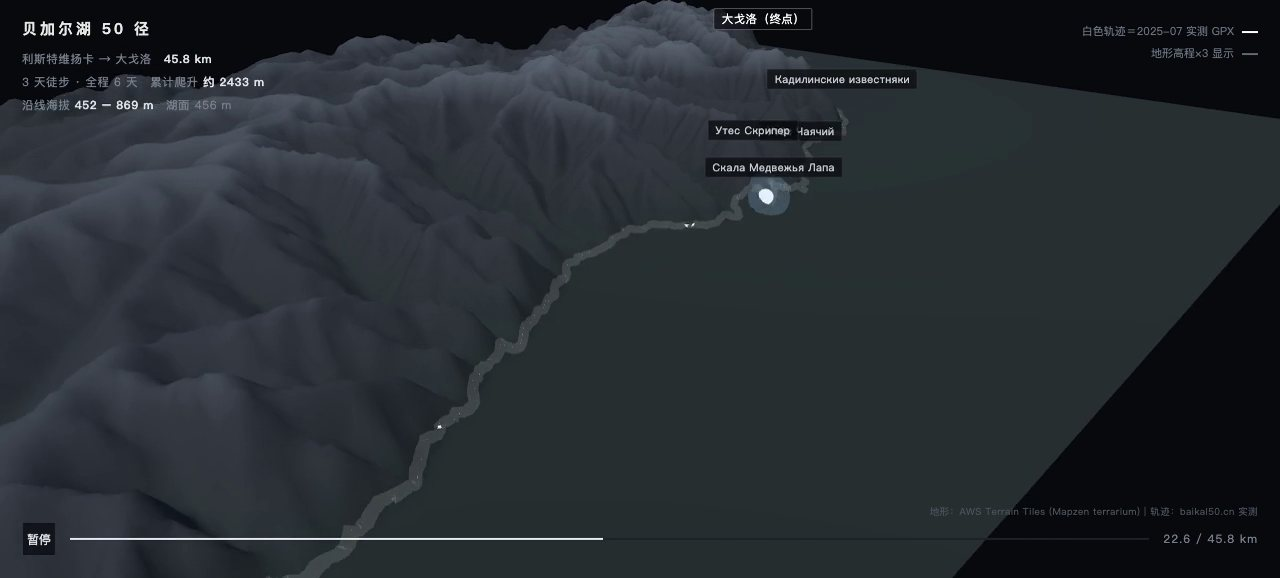
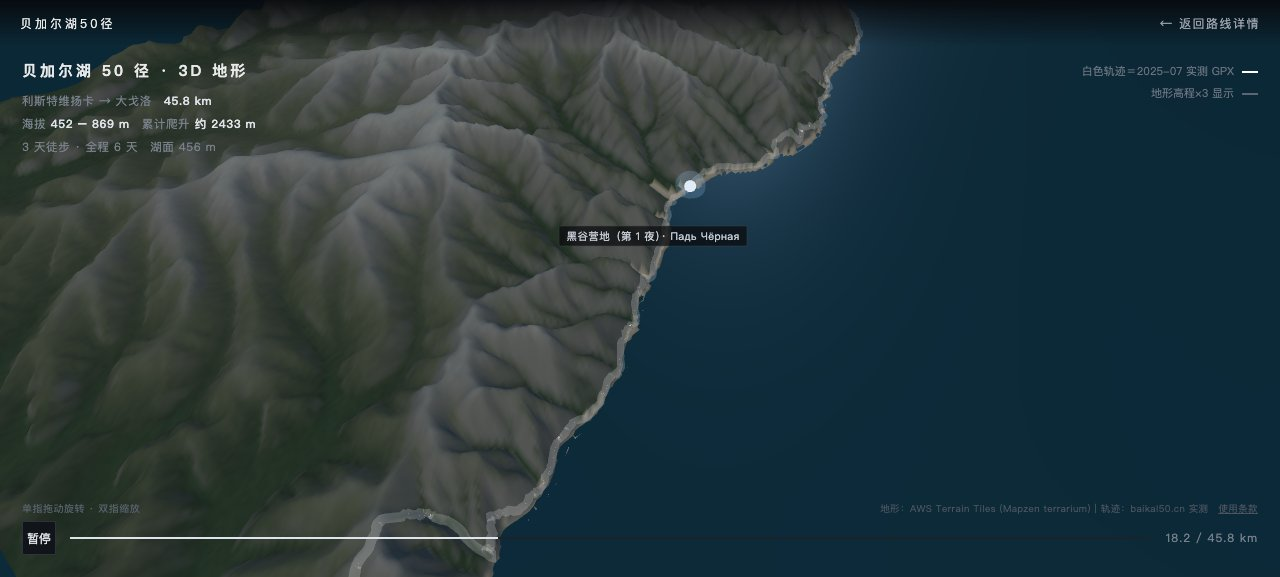
style(3D): 地形配色改实地色系（湖岸砾石滩/针叶林/崖壁裸岩，按高程+坡度混合）、湖水改深青蓝、日间自然光；标注改为 6 个关键点（含黑谷营地、大科特）；手机端 touch-action + 降密度 + 标签安全区；湖底压深修正水面被顶出

diff --git a/route-3d.html b/route-3d.html
@@ -20,7 +20,7 @@
     * { margin:0; padding:0; box-sizing:border-box; }
     html, body { height:100%; }
     body { background:#07090c; color:#e9e9e9; font-family:-apple-system,"PingFang SC","Noto Sans SC",sans-serif; overflow:hidden; }
-    canvas { display:block; }
+    canvas { display:block; touch-action:none; -webkit-user-select:none; user-select:none; }
     .topbar { position:fixed; left:0; right:0; top:0; height:46px; display:flex; align-items:center; justify-content:space-between;
               padding:0 20px; font-size:12px; letter-spacing:1.5px; z-index:20;
               background:linear-gradient(180deg, rgba(7,9,12,.92), rgba(7,9,12,0)); }
@@ -41,6 +41,7 @@
     .lbl { position:fixed; font-size:10.5px; color:#c6ccd4; background:rgba(8,10,13,.72); border:1px solid rgba(255,255,255,.09);
            padding:2px 7px; border-radius:2px; white-space:nowrap; pointer-events:none; transform:translate(-50%,-50%); letter-spacing:.4px; z-index:9; }
     .lbl.main { color:#fff; border-color:rgba(255,255,255,.28); font-size:11.5px; }
+    #hint { position:fixed; left:22px; bottom:62px; font-size:10px; color:#5a636f; letter-spacing:.5px; pointer-events:none; z-index:10; }
     #credit { position:fixed; right:22px; bottom:62px; font-size:9.5px; color:#4c545e; letter-spacing:.4px; pointer-events:none; z-index:10; }
     #credit a { color:inherit; }
     #legend { position:fixed; right:22px; top:60px; font-size:11px; color:#6b7480; line-height:2; text-align:right; pointer-events:none; z-index:10; }
@@ -50,7 +51,8 @@
       #hud { left:16px; top:56px; }
       #hud h1 { font-size:13px; }
       #legend { display:none; }
-      #credit { right:16px; bottom:66px; font-size:9px; }
+      #credit { right:16px; bottom:88px; font-size:8.5px; max-width:78%; text-align:right; line-height:1.5; }
+      #hint { left:16px; bottom:66px; font-size:9px; }
       #bar { left:16px; right:16px; bottom:16px; }
       #km { min-width:84px; }
     }
@@ -130,13 +132,14 @@
 </div>
 <div id="legend">
   白色轨迹＝2025-07 实测 GPX<i style="background:#ffffff"></i><br>
-  地形高程×8 显示<i style="background:#5b6672"></i>
+  地形高程×3 显示<i style="background:#5b6672"></i>
 </div>
 <div id="bar">
   <button id="play">暂停</button>
   <div id="track"><div id="fill"></div></div>
   <div id="km">0.0 / 45.8 km</div>
 </div>
+<div id="hint">单指拖动旋转 · 双指缩放</div>
 <div id="credit">地形：AWS Terrain Tiles (Mapzen terrarium)｜轨迹：baikal50.cn 实测　<a href="/license.html">使用条款</a></div>
 
 <script type="importmap">
@@ -151,7 +154,7 @@ import * as THREE from 'three';
 import { OrbitControls } from 'three/addons/controls/OrbitControls.js';
 
 const KMX = 36.1, KMZ = 24.1;      // 覆盖公里数（6×4 块 z12 瓦片）
-const VEX = 8.0;                    // 高程夸张倍数（36km 场景内要让 150m 崖体可见）
+const VEX = 3.0;                    // 高程夸张倍数（回到第一稿 ×3）
 const BASE = 456;                   // 湖面基准
 
 const data = await (await fetch('baik3d-data.json')).json();
@@ -184,7 +187,7 @@ scene.background = new THREE.Color(0x07090c);
 scene.fog = new THREE.FogExp2(0x07090c, 0.010);
 
 const camera = new THREE.PerspectiveCamera(42, innerWidth/innerHeight, 0.2, 400);
-camera.position.set(-21, 17, 21);
+camera.position.set(-24, 26, 24);
 if (camera.aspect < 1) camera.position.multiplyScalar(1.7);
 
 const renderer = new THREE.WebGLRenderer({ antialias:true });
@@ -197,34 +200,57 @@ controls.enableDamping = true; controls.dampingFactor = 0.07;
 controls.target.set(0, 1.5, 0);
 controls.maxPolarAngle = Math.PI/2 - 0.04;
 controls.minDistance = 8; controls.maxDistance = 90;
+controls.touches = { ONE: THREE.TOUCH.ROTATE, TWO: THREE.TOUCH.DOLLY_PAN };
 
-scene.add(new THREE.HemisphereLight(0x93a7bd, 0x05070a, 0.85));
-const sun = new THREE.DirectionalLight(0xf2f6ff, 1.55);
+scene.add(new THREE.HemisphereLight(0xa9cbe8, 0x22261d, 0.85));
+const sun = new THREE.DirectionalLight(0xfff3e0, 1.85);
 sun.position.set(-18, 26, 12); scene.add(sun);
-const fillLight = new THREE.DirectionalLight(0x7d93ad, 0.5);
+const fillLight = new THREE.DirectionalLight(0x8fb4d4, 0.45);
 fillLight.position.set(20, 10, -16); scene.add(fillLight);
 
 // ---------- 地形 ----------
-const SEG = 520;
+const IS_MOBILE = Math.min(innerWidth, innerHeight) < 700;
+const SEG = IS_MOBILE ? 320 : 520;   // 手机降密度保帧率
 const geo = new THREE.PlaneGeometry(KMX, KMZ, SEG, SEG);
 geo.rotateX(-Math.PI/2);
 const pos = geo.attributes.position;
-const colors = [];
-const cLow  = new THREE.Color(0x2b3a33);   // 低处（林地）
-const cMid  = new THREE.Color(0x4a4f56);   // 中坡
-const cHigh = new THREE.Color(0xa8b2bd);   // 高处（岩/雪）
+const colors = new Float32Array(pos.count * 3);
+// 第一遍：位移
 for (let i = 0; i < pos.count; i++) {
   const x = pos.getX(i), z = pos.getZ(i);
   const px = (x/KMX + 0.5) * gw, py = (z/KMZ + 0.5) * gh;
   const e = elevAt(px, py);
-  const y = isLake(px, py) ? (BASE - 3) : e;
+  const y = isLake(px, py) ? (BASE - 40) : e;
   pos.setY(i, (y - BASE) / 1000 * VEX);
-  const t = Math.max(0, Math.min(1, (e - EMIN) / (EMAX - EMIN)));
-  const c = t < 0.5 ? cLow.clone().lerp(cMid, t*2) : cMid.clone().lerp(cHigh, (t-0.5)*2);
-  colors.push(c.r, c.g, c.b);
 }
-geo.setAttribute('color', new THREE.Float32BufferAttribute(colors, 3));
 geo.computeVertexNormals();
+
+// 第二遍：按「高程 + 坡度」上色 —— 贴近实地（湖岸砾石／针叶林／崖壁裸岩）
+const nrm = geo.attributes.normal;
+const C_BEACH  = new THREE.Color(0x9c9689);   // 湖岸砾石滩
+const C_FOREST = new THREE.Color(0x2a4230);   // 针叶林
+const C_FOREST2= new THREE.Color(0x1e3324);   // 密林阴面
+const C_MIX    = new THREE.Color(0x4c5546);   // 林岩过渡
+const C_ROCK   = new THREE.Color(0x6e7274);   // 崖壁裸岩
+const C_ROCK2  = new THREE.Color(0x9aa0a2);   // 高处浅色岩
+const tmp = new THREE.Color();
+function hash(i){ const v = Math.sin(i * 12.9898) * 43758.5453; return v - Math.floor(v); }
+for (let i = 0; i < pos.count; i++) {
+  const x = pos.getX(i), z = pos.getZ(i);
+  const px = (x/KMX + 0.5) * gw, py = (z/KMZ + 0.5) * gh;
+  const e = elevAt(px, py);
+  const j = hash(i) * 0.45;                                  // 确定性噪声，避免色带
+  if (isLake(px, py) || e < 478) tmp.copy(C_BEACH);
+  else if (e < 600) tmp.copy(C_FOREST).lerp(C_FOREST2, 0.25 + j);
+  else if (e < 780) tmp.copy(C_FOREST2).lerp(C_MIX, (e-600)/180 + j*0.4);
+  else if (e < 900) tmp.copy(C_MIX).lerp(C_ROCK, (e-780)/120 + j*0.3);
+  else tmp.copy(C_ROCK).lerp(C_ROCK2, Math.min(1, (e-900)/160 + j*0.3));
+  const slope = 1 - Math.abs(nrm.getY(i));                   // 越陡越露岩
+  const sBlend = Math.max(0, Math.min(1, (slope - 0.16) / 0.32));
+  tmp.lerp(C_ROCK, sBlend * 0.85);
+  colors[i*3] = tmp.r; colors[i*3+1] = tmp.g; colors[i*3+2] = tmp.b;
+}
+geo.setAttribute('color', new THREE.BufferAttribute(colors, 3));
 const terrain = new THREE.Mesh(geo, new THREE.MeshStandardMaterial({
   vertexColors:true, roughness:0.94, metalness:0.04, flatShading:false
 }));
@@ -232,11 +258,11 @@ scene.add(terrain);
 
 // ---------- 湖面 ----------
 const water = new THREE.Mesh(
-  new THREE.PlaneGeometry(KMX*3.2, KMZ*3.2),
-  new THREE.MeshStandardMaterial({ color:0x05090d, roughness:0.62, metalness:0.18 })
+  new THREE.PlaneGeometry(KMX*9, KMZ*9),   // 大幅外扩，水面边缘移出画面
+  new THREE.MeshStandardMaterial({ color:0x18485f, roughness:0.34, metalness:0.42 })
 );
 water.rotation.x = -Math.PI/2;
-water.position.y = (BASE - BASE) / 1000 * VEX - 0.012;
+water.position.y = -0.004;
 scene.add(water);
 
 // ---------- 路线 ----------
@@ -249,13 +275,13 @@ const curve = new THREE.CatmullRomCurve3(route, false, 'catmullrom', 0.15);
 
 // 底光晕（粗淡线）
 const halo = new THREE.Mesh(
-  new THREE.TubeGeometry(curve, 1400, 0.028, 6, false),
-  new THREE.MeshBasicMaterial({ color:0xffffff, transparent:true, opacity:0.11 })
+  new THREE.TubeGeometry(curve, IS_MOBILE ? 700 : 1400, 0.085, 6, false),
+  new THREE.MeshBasicMaterial({ color:0xffffff, transparent:true, opacity:0.20 })
 );
 scene.add(halo);
 // 主线
 const lineMat = new THREE.MeshBasicMaterial({ color:0xffffff, transparent:true, opacity:0.95 });
-const line = new THREE.Mesh(new THREE.TubeGeometry(curve, 1400, 0.011, 6, false), lineMat);
+const line = new THREE.Mesh(new THREE.TubeGeometry(curve, IS_MOBILE ? 700 : 1400, 0.026, 6, false), lineMat);
 scene.add(line);
 
 // ---------- 进度光点 ----------
@@ -267,28 +293,33 @@ const glow = new THREE.Mesh(new THREE.SphereGeometry(0.42, 18, 18),
 scene.add(glow);
 
 // ---------- 标签 ----------
-const LABELS = [
-  { t:'利斯特维扬卡（起点）', p: data.waypoints.find(w=>w.n.includes('Начало')) || data.waypoints[1], main:true },
-  { t:'大戈洛（终点）',       p: data.waypoints.find(w=>w.n.includes('Окончание')) || data.waypoints[2], main:true },
-  { t:'Листвянка', p:null },
+// ---------- 关键点标注（按累计里程定位，中文＋俄文）----------
+const LABEL_SPEC = [
+  { km:  0.0, t: '利斯特维扬卡（起点）',               main: true  },
+  { km: 14.8, t: '黑谷营地（第 1 夜）· Падь Чёрная',   main: false },
+  { km: 17.9, t: '大科特 · Большие Коты',             main: false },
+  { km: 22.4, t: '斯克佩瑞尔悬崖 · Утёс Скрипер',      main: false },
+  { km: 30.5, t: '卡迪利石灰岩（第 2 夜）',            main: false },
+  { km: 45.8, t: '大戈洛（终点）',                     main: true  },
 ];
-const chosen = [];
-const mainNames = ['Начало маршрута','Окончание маршрута'];
-data.waypoints.forEach(w => { if (mainNames.some(m => w.n.includes(m.split(' ')[0]))) chosen.push({...w, main:true}); });
-// 途中只挑「短名、有地名指向」的景点，避开 стоянка 长串
-const mids = data.waypoints.filter(w =>
-  !mainNames.some(m => w.n.includes(m.split(' ')[0])) &&
-  !/стоянка/i.test(w.n) && w.n.length <= 30);
-mids.slice(0, 4).forEach(w => chosen.push({...w, main:false}));
+
+// 里程 → 路线点（x,y 归一化 + 高程）
+function pointAtKm(km) {
+  const cum = data.cumKm;
+  let lo = 0, hi = cum.length - 1;
+  while (lo < hi - 1) { const mid = (lo + hi) >> 1; if (cum[mid] <= km) lo = mid; else hi = mid; }
+  const r = data.route[lo];
+  return { x: r[0], y: r[1], e: r[2] };
+}
+const chosen = LABEL_SPEC.map(sp => ({ ...pointAtKm(sp.km), n: sp.t, main: sp.main }));
 
 const labelEls = chosen.map((w, idx) => {
   const d = document.createElement('div');
   d.className = 'lbl' + (w.main ? ' main' : '');
-  d.textContent = w.n.replace('Начало маршрута','利斯特维扬卡（起点）')
-                    .replace('Окончание маршрута','大戈洛（终点）');
+  d.textContent = w.n;
   document.body.appendChild(d);
   const p = new THREE.Vector3((w.x-0.5)*KMX, (w.e-BASE)/1000*VEX + 0.6, (w.y-0.5)*KMZ);
-  return { el:d, p, off:(idx % 3) * 16 };
+  return { el:d, p, off:(idx % 4) * 22 };
 });
 
 // ---------- 播放控制 ----------
@@ -317,7 +348,7 @@ function tick(){
   if (camMode !== 'free') {
     const ahead = curve.getPointAt(Math.min(u + 0.035, 1));
     const adj = camera.aspect < 1 ? 1.85 : 1.0;   // 窄屏（手机竖屏）自动拉远
-    const want = ahead.clone().add(new THREE.Vector3(-7.5*adj, 5.2*adj, 7.5*adj));
+    const want = ahead.clone().add(new THREE.Vector3(-9.5*adj, 12.0*adj, 9.5*adj));
     camera.position.lerp(want, 2.4*dt);
     controls.target.lerp(pt, 3.0*dt);
   }
@@ -333,7 +364,12 @@ function tick(){
     const pxRaw = (v.x*0.5+0.5)*innerWidth;
     const pxClamped = Math.max(halfW, Math.min(innerWidth - halfW, pxRaw));
     el.style.left = pxClamped + 'px';
-    el.style.top  = (-v.y*0.5+0.5)*innerHeight - (off||0) + 'px';
+    // 纵向安全区：落在 HUD 区或进度条区时「暂时隐藏」，不硬挤成一条线
+    const safeTop = innerWidth < 700 ? 268 : 168;
+    const safeBottom = innerHeight - 96;
+    const pyRaw = (-v.y*0.5+0.5)*innerHeight - (off||0);
+    if (pyRaw < safeTop || pyRaw > safeBottom) { el.style.display = 'none'; return; }
+    el.style.top = pyRaw + 'px';
   });
   requestAnimationFrame(tick);
 }
